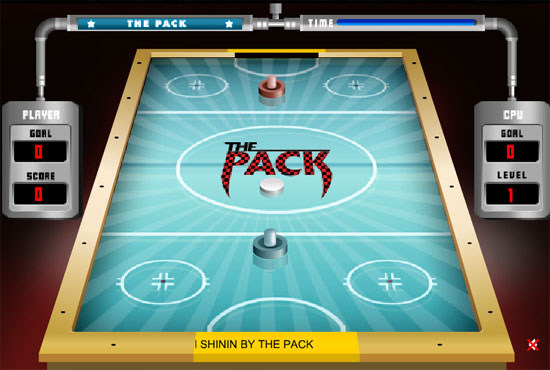
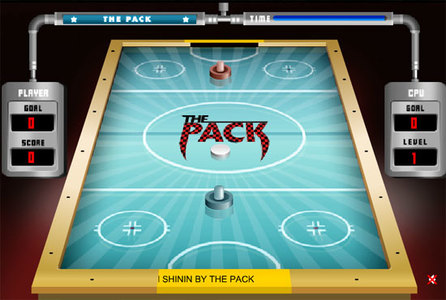
Nouvelles images

diff --git a/css/style.css b/css/style.css
@@ -172,12 +172,6 @@ p {
         color: black;
     }
 
-    .thumbnailgame img
-    {
-        width: 300px;
-        height: 200px;
-    }
-
     /* MODALES */
 
     .justify
